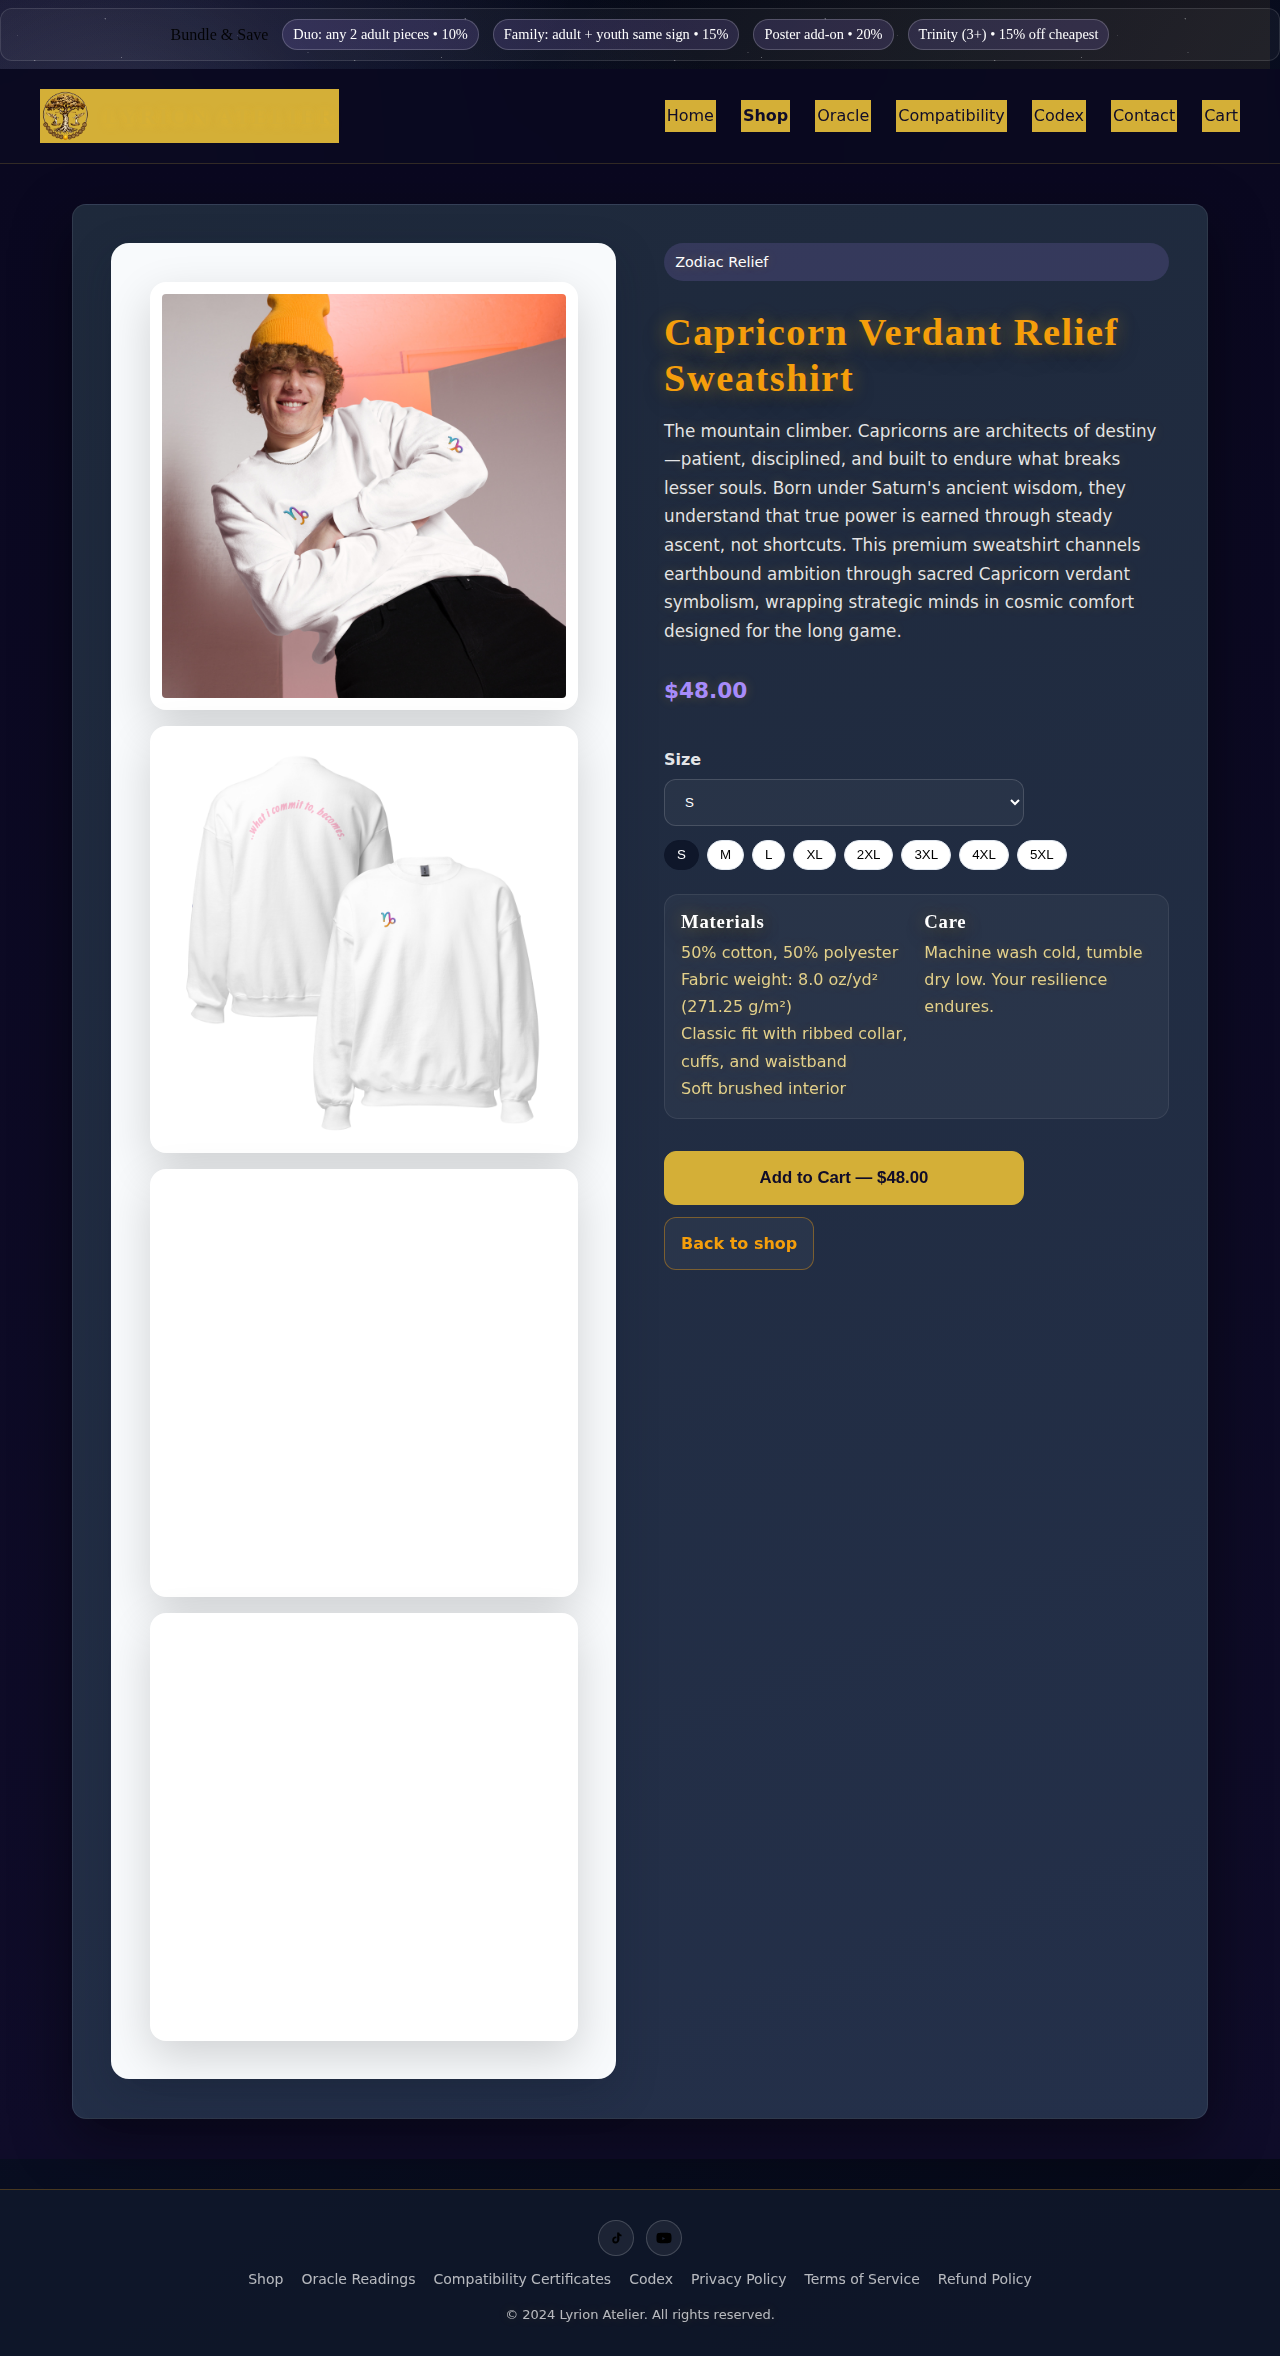
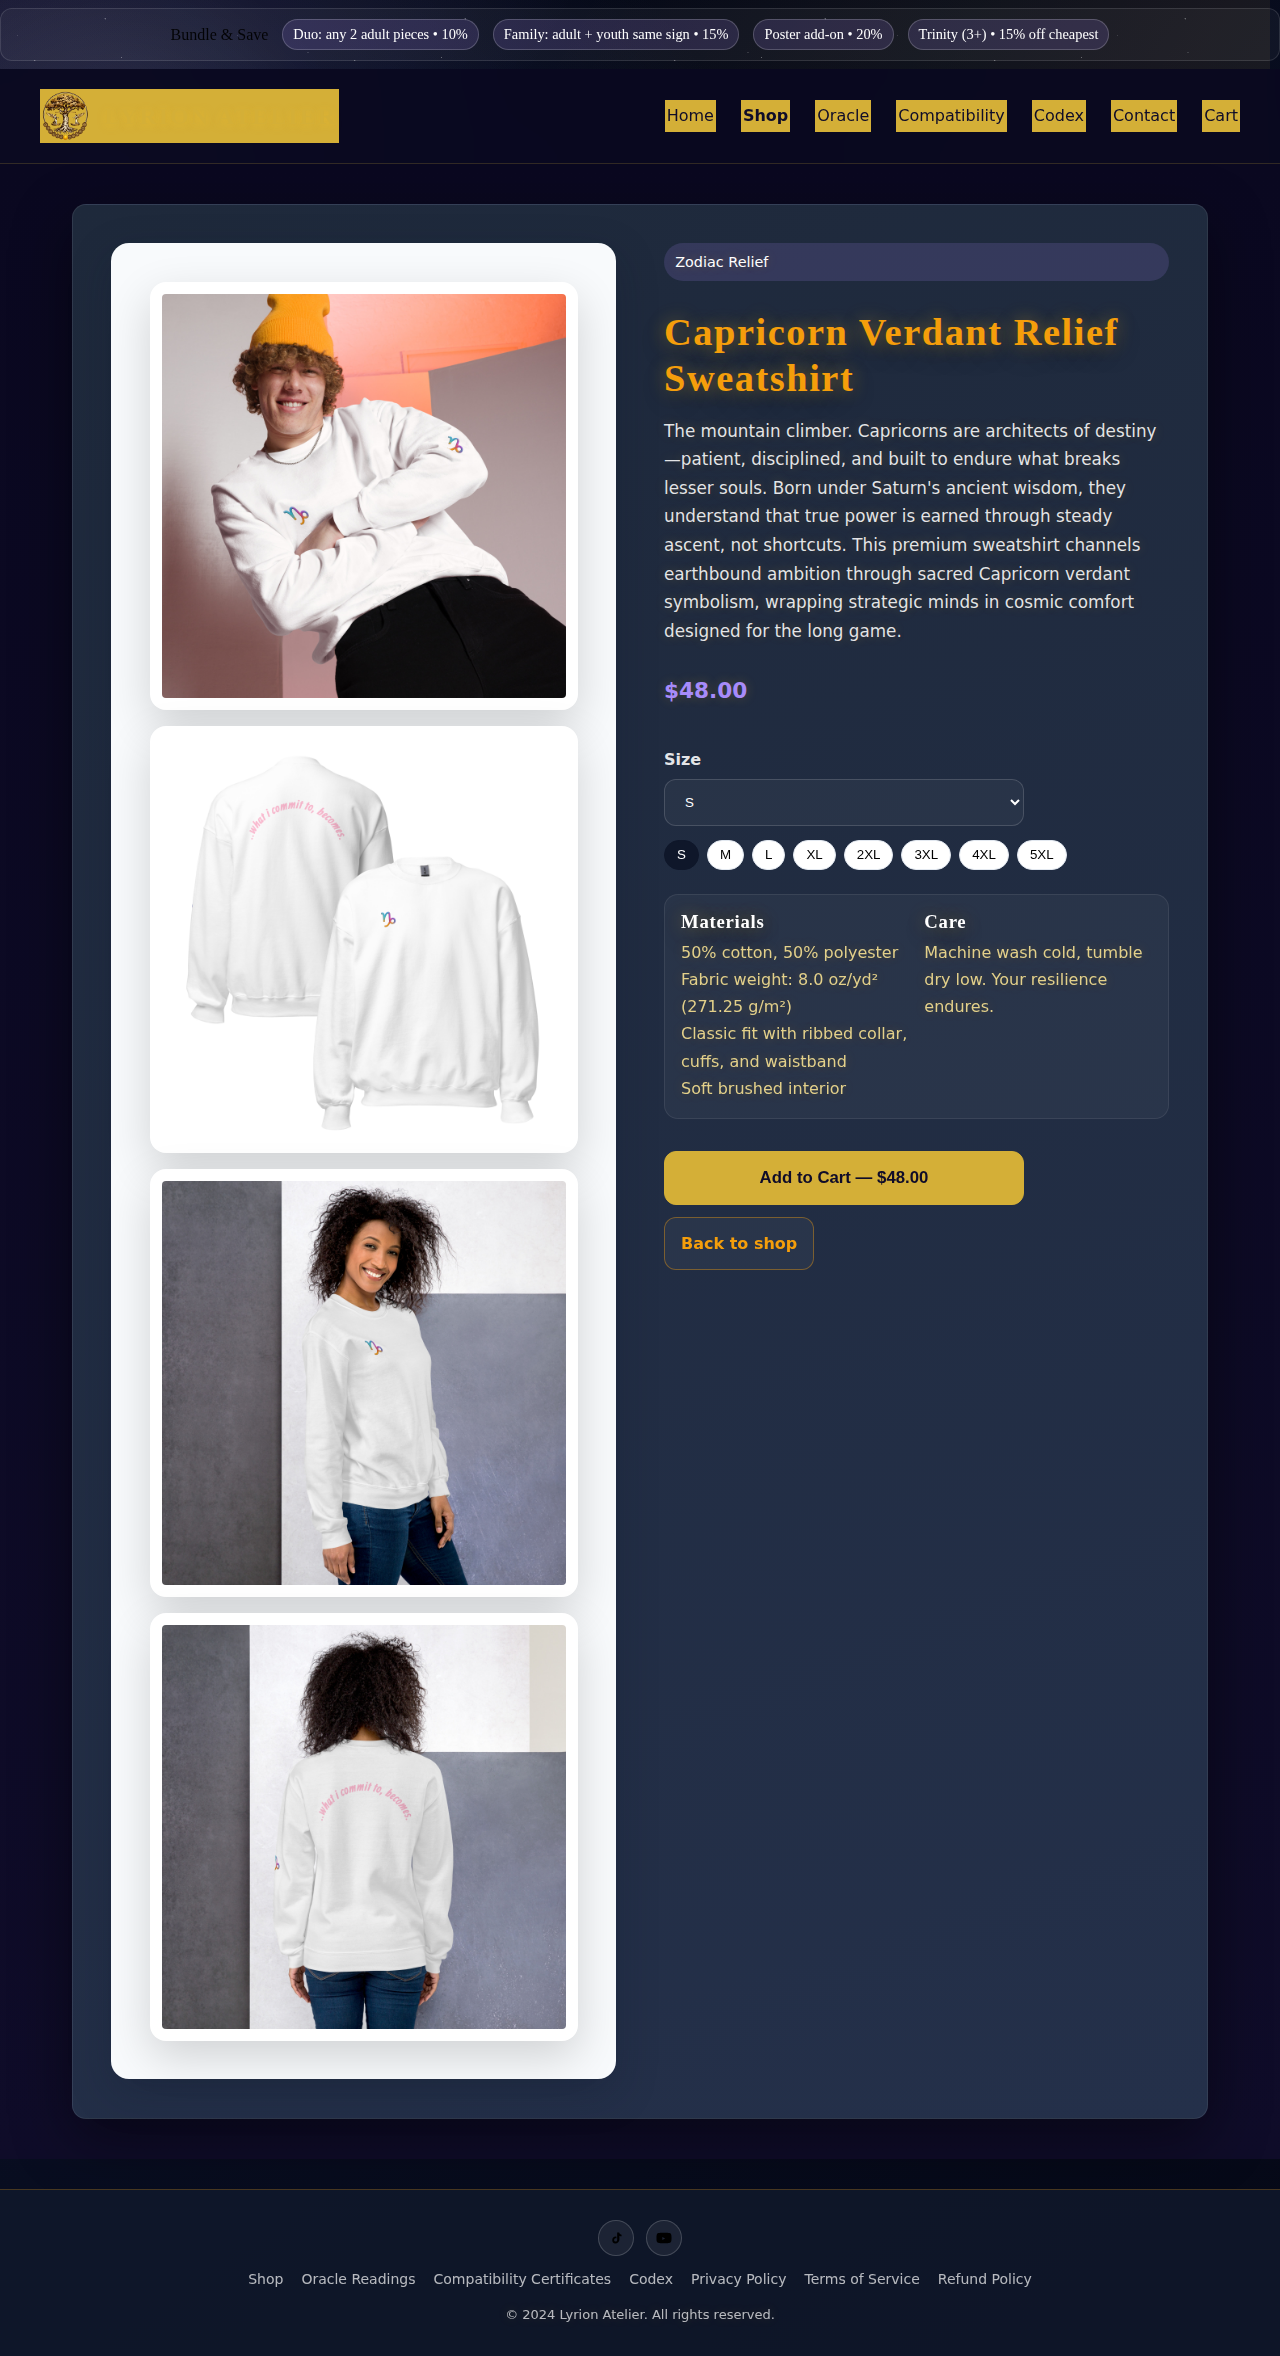
Remove yellow background from navigation

Changed region(s): [[0.125, 0.4958, 0.4688, 0.8676]]

diff --git a/css/style.css b/css/style.css
@@ -282,14 +282,17 @@ img {
   display: inline-block;
   padding: 0.55rem 0.9rem;
   border-radius: 10px;
-  color: var(--text);
+  background: none;
+  background-color: transparent;
+  color: #fff;
   text-shadow: var(--text-glow);
   transition: all 0.2s ease;
 }
 
 .nav a:hover,
 .nav a:focus-visible {
-  background: rgba(167, 139, 250, 0.12);
+  background: none;
+  background-color: transparent;
   color: #fff;
 }
 
@@ -404,7 +407,9 @@ img {
 }
 
 .nav-links a {
-  color: rgba(255, 255, 255, 0.8);
+  background: none;
+  background-color: transparent;
+  color: #fff;
   text-decoration: none;
   font-size: 16px;
   font-weight: 500;
@@ -413,11 +418,15 @@ img {
 }
 
 .nav-links a:hover {
-  color: #fbbf24;
+  background: none;
+  background-color: transparent;
+  color: #fff;
 }
 
 .nav-links a.active {
-  color: #fbbf24;
+  background: none;
+  background-color: transparent;
+  color: #fff;
   position: relative;
   white-space: nowrap;
 }
@@ -429,7 +438,7 @@ img {
   left: 0;
   right: 0;
   height: 2px;
-  background: #fbbf24;
+  background: #fff;
 }
 
 /* Mobile Navigation Toggle */
@@ -5886,18 +5895,24 @@ button,
 }
 
 .nav-links a {
-  color: rgba(255, 255, 255, 0.9);
+  background: none;
+  background-color: transparent;
+  color: #fff;
   text-decoration: none;
   font-size: 1rem;
   transition: color 0.3s ease;
 }
 
 .nav-links a:hover {
-  color: #d4af37;
+  background: none;
+  background-color: transparent;
+  color: #fff;
 }
 
 .nav-links a[aria-current="page"] {
-  color: #d4af37;
+  background: none;
+  background-color: transparent;
+  color: #fff;
   font-weight: 600;
 }
 
